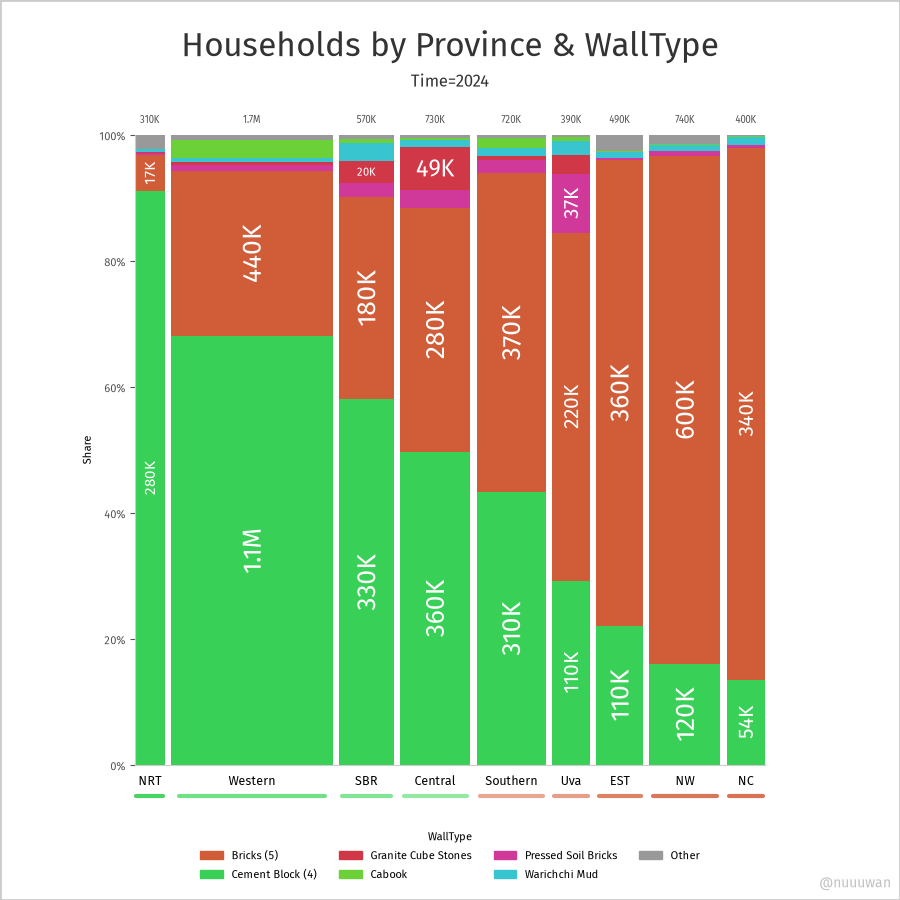
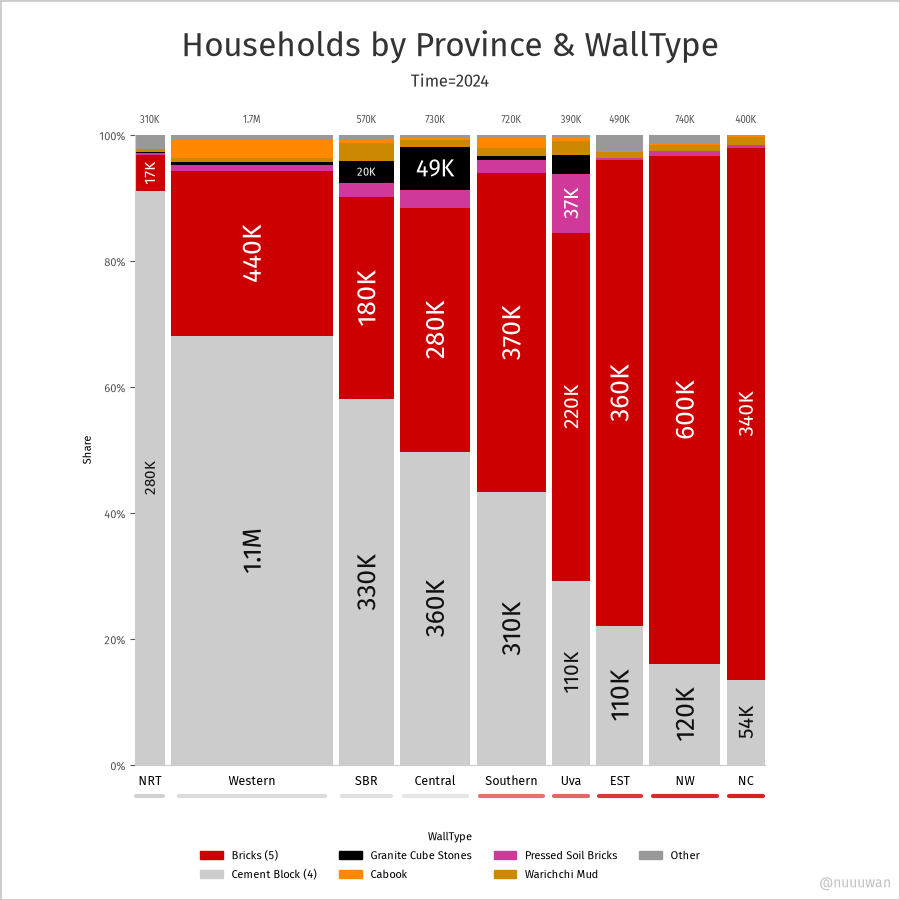
Refactor code structure for improved readability and maintainability

diff --git a/src/ds/thing/concept/household/WallType.py b/src/ds/thing/concept/household/WallType.py
@@ -6,61 +6,61 @@ class WallType(CategoryConcept):
     @classmethod
     def valid_values(cls):
         return [
-            'bricks',
-            'cabook',
-            'cadjan_palmyrah',
-            'cement_block',
-            'cement_block_stone',
-            'granite_cube_stones',
-            'not_relevant',
-            'other',
-            'plank_or_metal_sheet',
-            'planks_metal',
-            'pressed_soil_bricks',
-            'warichchi_mud',
-            'zink_aluminium',
+            "bricks",
+            "cabook",
+            "cadjan_palmyrah",
+            "cement_block",
+            "cement_block_stone",
+            "granite_cube_stones",
+            "not_relevant",
+            "other",
+            "plank_or_metal_sheet",
+            "planks_metal",
+            "pressed_soil_bricks",
+            "warichchi_mud",
+            "zink_aluminium",
         ]
 
     @classmethod
     def map_alias(cls):
         return {
-            'bricks': [
-                'brick',
+            "bricks": [
+                "brick",
             ],
-            'cadjan_palmyrah': [
-                'cadjan_or_palmyrah',
+            "cadjan_palmyrah": [
+                "cadjan_or_palmyrah",
             ],
-            'cement_block_stone': [
-                'cement_block_or_stone',
+            "cement_block_stone": [
+                "cement_block_or_stone",
             ],
-            'planks_metal': [
-                'planks_metal_sheets_asbestos',
+            "planks_metal": [
+                "planks_metal_sheets_asbestos",
             ],
-            'pressed_soil_bricks': [
-                'soil_bricks',
+            "pressed_soil_bricks": [
+                "soil_bricks",
             ],
-            'warichchi_mud': [
-                'mud',
+            "warichchi_mud": [
+                "mud",
             ],
-            'zink_aluminium': [
-                'zink_aluminium_sheets',
+            "zink_aluminium": [
+                "zink_aluminium_sheets",
             ],
         }
 
     @classmethod
     def get_color_map(cls):
         return {
-            'bricks': '#D05D38',
-            'cabook': '#6CD038',
-            'cadjan_palmyrah': '#D0AF38',
-            'cement_block': '#38D056',
-            'cement_block_stone': '#3840D0',
-            'granite_cube_stones': '#D03847',
-            'not_relevant': '#cccccc',
-            'other': '#cccccc',
-            'plank_or_metal_sheet': '#8238D0',
-            'planks_metal': '#3873D0',
-            'pressed_soil_bricks': '#D03899',
-            'warichchi_mud': '#38C5D0',
-            'zink_aluminium': '#9FD038',
+            "bricks": "#cc0000",
+            "cabook": "#ff8800",
+            "cadjan_palmyrah": "#D0AF38",
+            "cement_block": "#cccccc",
+            "cement_block_stone": "#888888",
+            "granite_cube_stones": "#000000",
+            "not_relevant": "#cccccc",
+            "other": "#cccccc",
+            "plank_or_metal_sheet": "#8238D0",
+            "planks_metal": "#3873D0",
+            "pressed_soil_bricks": "#D03899",
+            "warichchi_mud": "#cc8800",
+            "zink_aluminium": "#38C5D0",
         }
